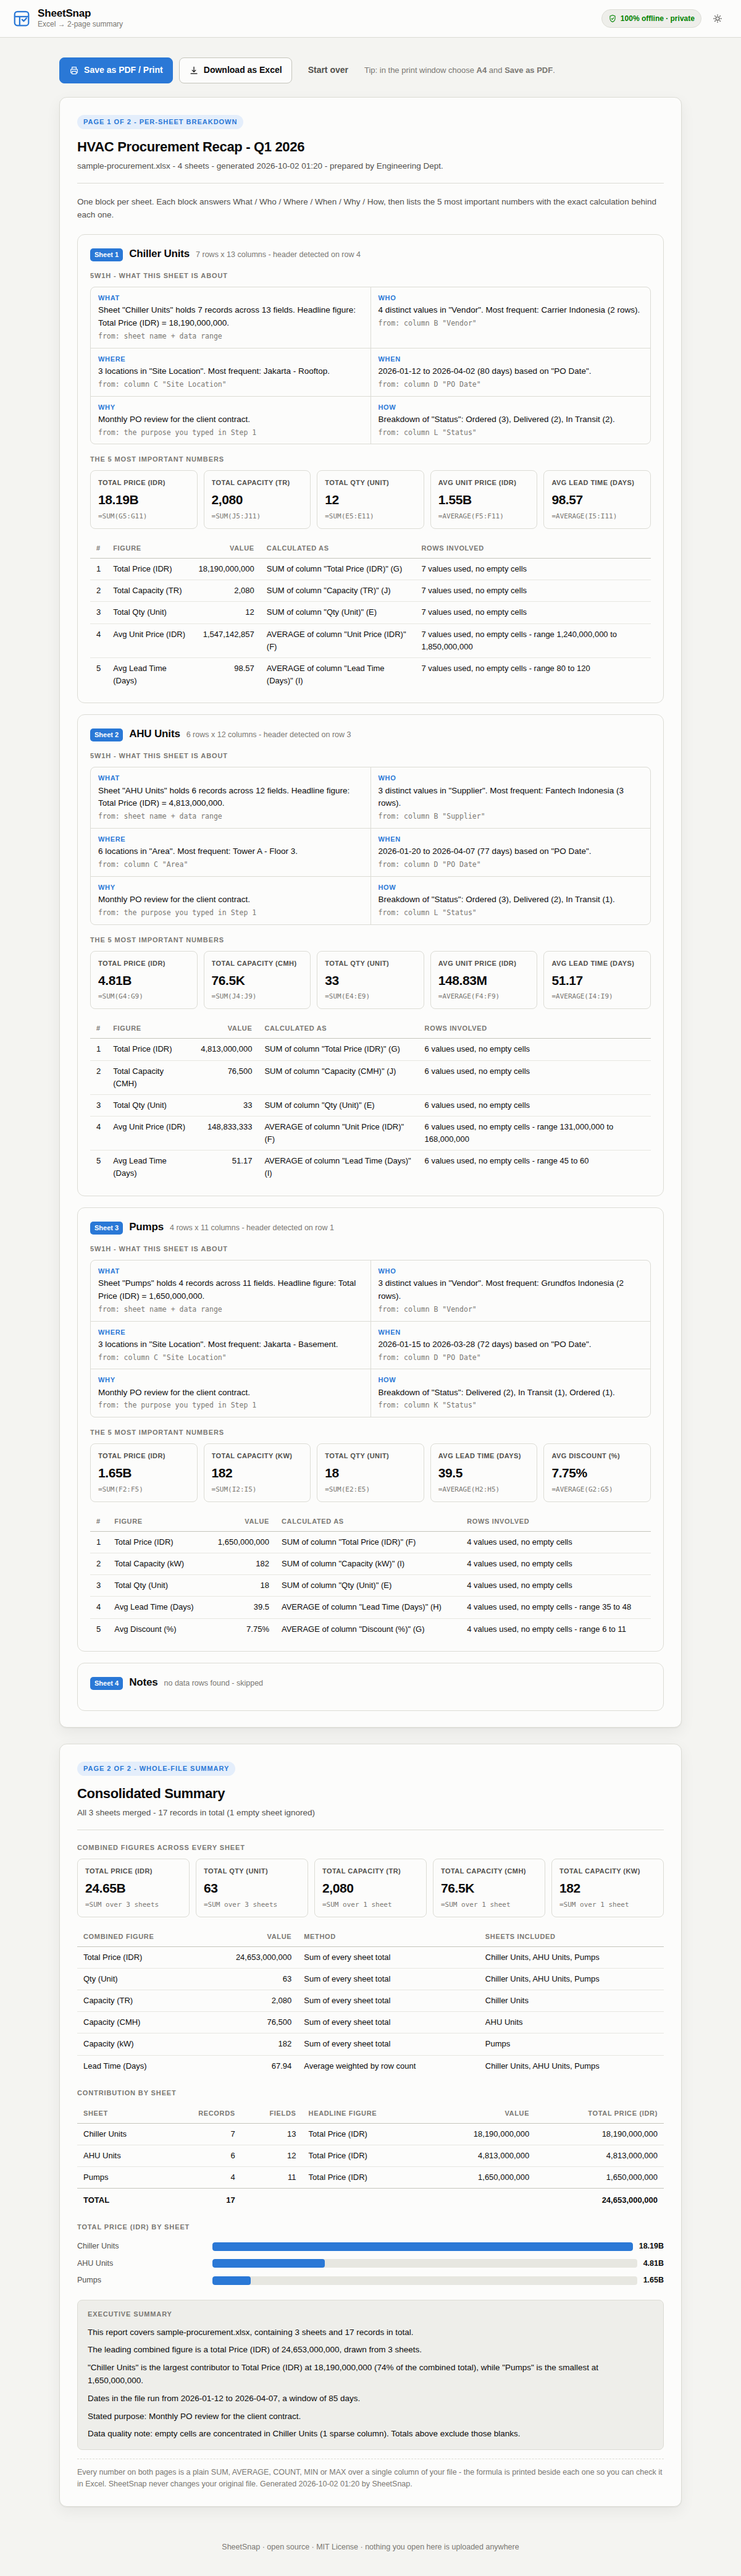
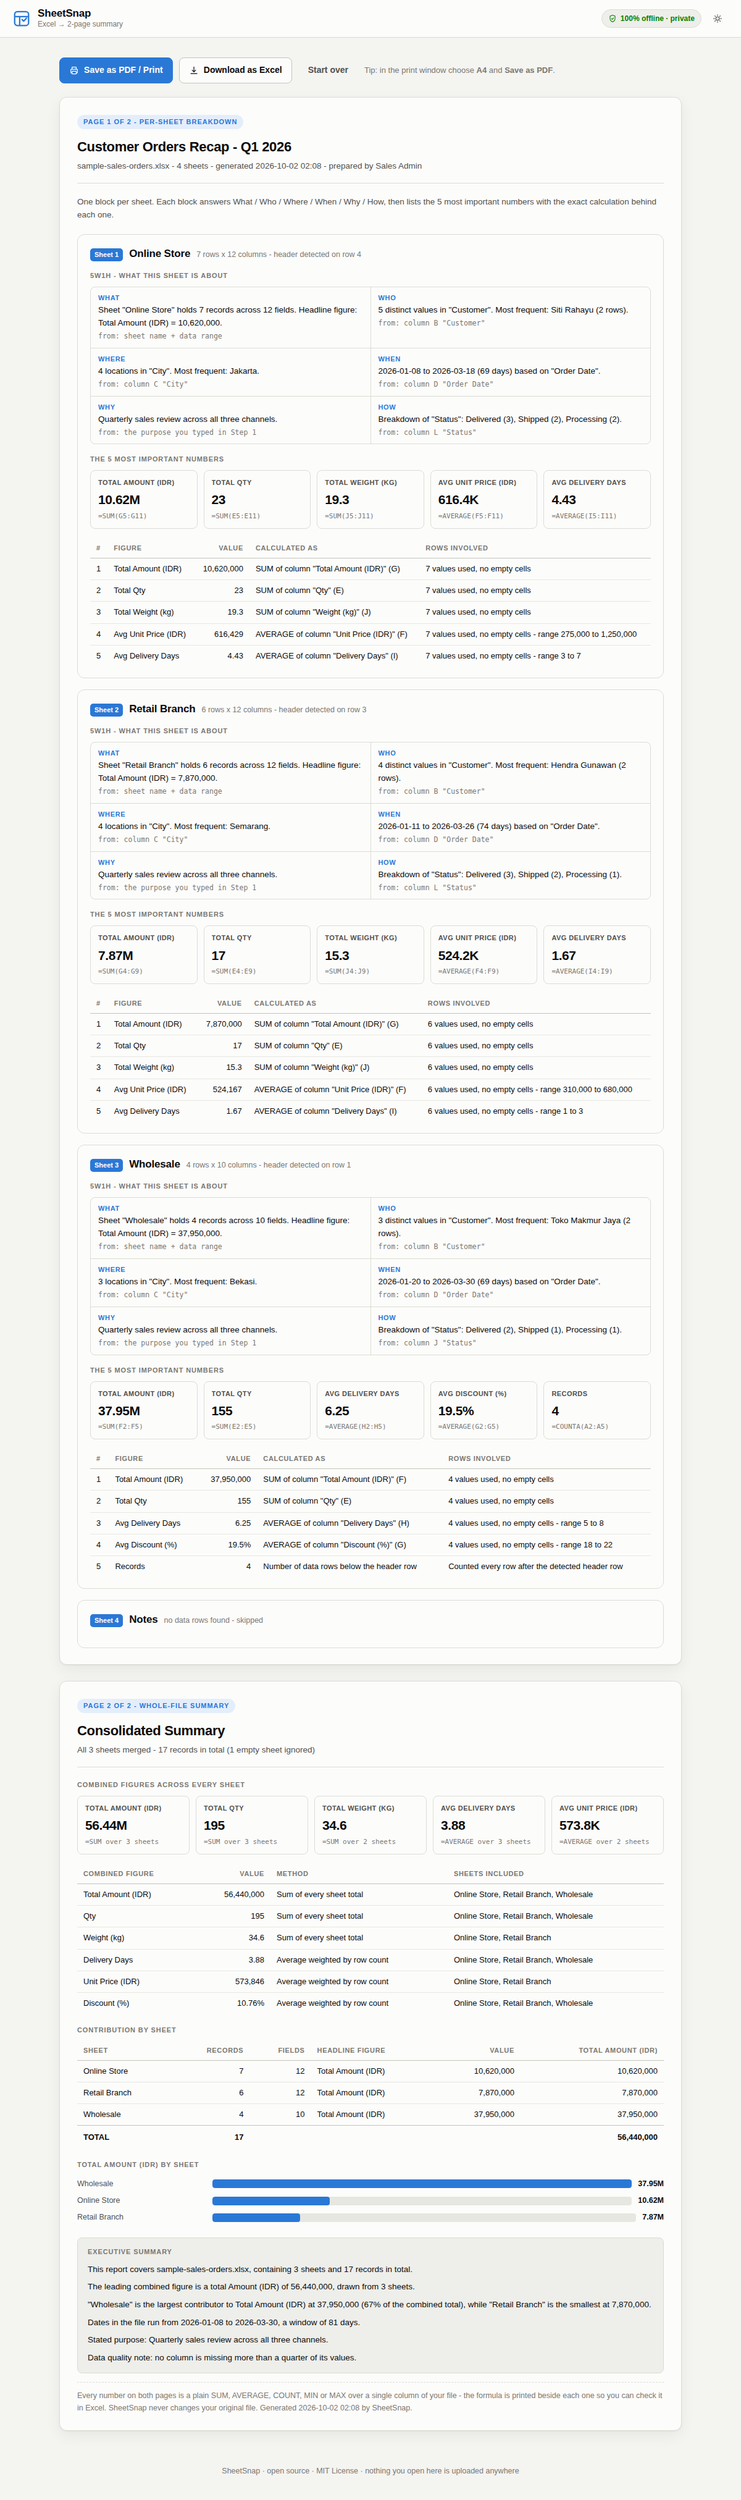
Replace the example workbook with a general sales-orders one
The old example was an HVAC procurement recap. It demonstrated the engine well
but it is a niche domain, so a reader outside that industry had to decode the
example before they could judge the tool. The replacement is deliberately
ordinary and still concrete: a small business tracking customer orders across
three sales channels.

examples/sample-sales-orders.xlsx
- Online Store (7 orders), Retail Branch (6), Wholesale (4), plus a Notes tab
  with no table that must be skipped.
- Columns are ones most spreadsheets actually have: Customer, City, Order Date,
  Qty, Unit Price, Total Amount, Discount (%), Delivery Days, Weight (kg),
  Payment Method, Status.
- It still exercises every path: a two-row title block above the header on one
  sheet, a one-row block on another and none on the third; money, quantity,
  weight, per-unit price, duration and percentage columns; and a third sheet
  missing two columns, so consolidation has to match on column name rather than
  position.
- Totals are gross (Qty x Unit Price) with the discount kept in its own column,
  so every figure in the report can be checked by hand against the source file.

Also replaces the HVAC wording in the input placeholders, a code comment and a
test comment, and refreshes both README screenshots from the new output.

Verification
- All 33 browser checks pass against the new workbook. The cross-sheet total
  assertion is recomputed from the source rows in the test itself and comes to
[…]

Changed region(s): [[0.0617, 0.0, 0.8942, 0.9652], [0.74, 0.3425, 0.8325, 0.4047]]

diff --git a/SheetSnap.html b/SheetSnap.html
@@ -343,9 +343,9 @@ table.t tfoot td{font-weight:700;border-top:1px solid var(--border-strong);borde
     <details class="opt">
       <summary>Optional &mdash; add a report title and your name <span class="opt-badge">you can skip this</span></summary>
       <div class="optgrid">
-        <label>Report title<input type="text" id="optTitle" placeholder="e.g. HVAC Procurement Recap"></label>
-        <label>Prepared by<input type="text" id="optAuthor" placeholder="e.g. Andi / Engineering Dept."></label>
-        <label class="optwide">Why this report exists (the &ldquo;Why&rdquo;)<input type="text" id="optWhy" placeholder="e.g. Monthly PO review for the client contract"></label>
+        <label>Report title<input type="text" id="optTitle" placeholder="e.g. Q1 Sales Recap"></label>
+        <label>Prepared by<input type="text" id="optAuthor" placeholder="e.g. Sales Admin"></label>
+        <label class="optwide">Why this report exists (the &ldquo;Why&rdquo;)<input type="text" id="optWhy" placeholder="e.g. Quarterly review for the management meeting"></label>
       </div>
     </details>
 
@@ -501,7 +501,7 @@ var o=[];var l=Array.isArray(e);for(f=n.s.c;f<=n.e.c;++f)s[f]=ya(f);for(var c=n.
   /* ---------------------------------------------------------------
      1. Column-name vocabulary
         Used to guess what a column means. English + Indonesian,
-        because real procurement sheets mix both.
+        because real-world spreadsheets mix both.
      --------------------------------------------------------------- */
   var VOCAB = {
     unitRate: /(unit ?price|unit ?cost|unit ?rate|harga ?satuan|price ?per|cost ?per|rate ?per|per ?unit|\/ ?unit|\bupp\b)/i,

diff --git a/src/index.html b/src/index.html
@@ -70,9 +70,9 @@
     <details class="opt">
       <summary>Optional &mdash; add a report title and your name <span class="opt-badge">you can skip this</span></summary>
       <div class="optgrid">
-        <label>Report title<input type="text" id="optTitle" placeholder="e.g. HVAC Procurement Recap"></label>
-        <label>Prepared by<input type="text" id="optAuthor" placeholder="e.g. Andi / Engineering Dept."></label>
-        <label class="optwide">Why this report exists (the &ldquo;Why&rdquo;)<input type="text" id="optWhy" placeholder="e.g. Monthly PO review for the client contract"></label>
+        <label>Report title<input type="text" id="optTitle" placeholder="e.g. Q1 Sales Recap"></label>
+        <label>Prepared by<input type="text" id="optAuthor" placeholder="e.g. Sales Admin"></label>
+        <label class="optwide">Why this report exists (the &ldquo;Why&rdquo;)<input type="text" id="optWhy" placeholder="e.g. Quarterly review for the management meeting"></label>
       </div>
     </details>
 

diff --git a/src/app.js b/src/app.js
@@ -92,7 +92,7 @@
   /* ---------------------------------------------------------------
      1. Column-name vocabulary
         Used to guess what a column means. English + Indonesian,
-        because real procurement sheets mix both.
+        because real-world spreadsheets mix both.
      --------------------------------------------------------------- */
   var VOCAB = {
     unitRate: /(unit ?price|unit ?cost|unit ?rate|harga ?satuan|price ?per|cost ?per|rate ?per|per ?unit|\/ ?unit|\bupp\b)/i,

diff --git a/README.md b/README.md
@@ -94,9 +94,9 @@ For each sheet in your file, you get:
 
 **The 5 most important numbers** — and for each one, *exactly how it was calculated*:
 
-> **Total Price (IDR) — 18,190,000,000**
+> **Total Amount (IDR) — 10,620,000**
 > `=SUM(G5:G11)`
-> SUM of column "Total Price (IDR)" (G) · 7 values used, no empty cells
+> SUM of column "Total Amount (IDR)" (G) · 7 values used, no empty cells
 
 Nothing is a black box. Every number names its column, its formula, and how many
 rows went into it, so you can check it yourself in Excel in ten seconds.
@@ -154,8 +154,9 @@ Full technical detail: [THIRD-PARTY-NOTICES.md](THIRD-PARTY-NOTICES.md).
 `.xlsx` · `.xls` · `.xlsm` · `.xlsb` · `.csv` · `.tsv` · `.ods`
 
 Want to try it before using your real data? Use the example file in this repo:
-[`examples/sample-procurement.xlsx`](examples/sample-procurement.xlsx) — a
-realistic purchase-order workbook with three sheets.
+[`examples/sample-sales-orders.xlsx`](examples/sample-sales-orders.xlsx) — a
+small business tracking customer orders across three sales channels, with a
+fourth notes tab that SheetSnap correctly skips.
 
 ---
 
@@ -172,8 +173,9 @@ one, so:
 | Use **real dates**, not text | Then the "When" answer and the time-span figure work. |
 
 Helpful column names (English or Indonesian both work) let SheetSnap guess better:
-`Total`, `Price`, `Harga`, `Qty`, `Jumlah`, `Vendor`, `Supplier`, `Location`,
-`Lokasi`, `Date`, `Tanggal`, `Status`, `Payment Term`, `Lead Time`, `Capacity`.
+`Total`, `Amount`, `Price`, `Harga`, `Qty`, `Jumlah`, `Weight`, `Berat`,
+`Customer`, `Vendor`, `Supplier`, `City`, `Kota`, `Location`, `Lokasi`, `Date`,
+`Tanggal`, `Status`, `Payment Method`, `Delivery Days`, `Discount`, `Capacity`.
 
 ---
 
@@ -224,7 +226,7 @@ src/app.js              the whole engine: header detection, column profiling,
                         metric selection, 5W1H, consolidation, rendering, export
 src/vendor/             SheetJS 0.18.5 (Apache-2.0), bundled so the app works offline
 build.mjs               inlines src/* into SheetSnap.html
-tools/make-example.mjs  regenerates examples/sample-procurement.xlsx
+tools/make-example.mjs  regenerates examples/sample-sales-orders.xlsx
 tools/smoke-test.mjs    drives the real built file in a real browser and checks the output
 ```
 
